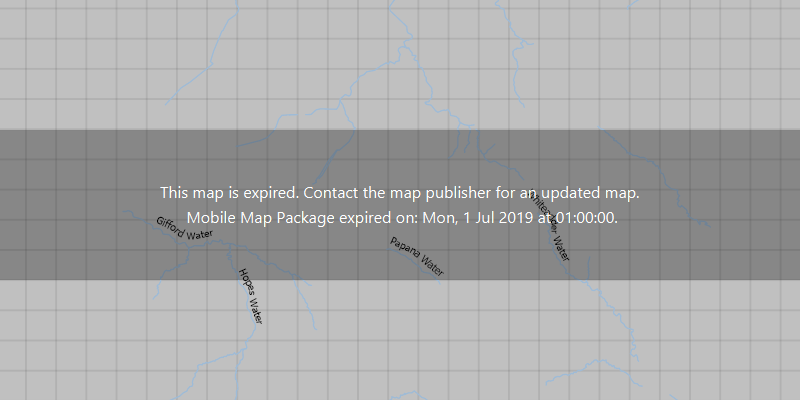
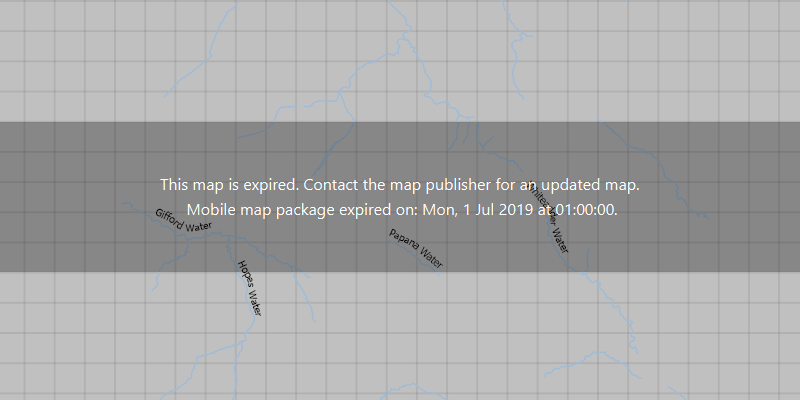
expiration message to sentence case

diff --git a/map/honor-mobile-map-package-expiration-date/src/main/java/com/esri/samples/honor_mobile_map_package_expiration_date/HonorMobileMapPackageExpirationDateSample.java b/map/honor-mobile-map-package-expiration-date/src/main/java/com/esri/samples/honor_mobile_map_package_expiration_date/HonorMobileMapPackageExpirationDateSample.java
@@ -96,7 +96,7 @@ public class HonorMobileMapPackageExpirationDateSample extends Application {
           String expirationDate = daysHoursFormat.format(expiration.getDateTime().getTimeInMillis());
 
           // set the expiration message to the label
-          expirationDetailsLabel.setText(expirationMessage + "\n Mobile Map Package expired on: " + expirationDate + ".");
+          expirationDetailsLabel.setText(expirationMessage + "\n Mobile map package expired on: " + expirationDate + ".");
 
         }
         if (mobileMapPackage.getLoadStatus() == LoadStatus.LOADED && !mobileMapPackage.getMaps().isEmpty()) {
